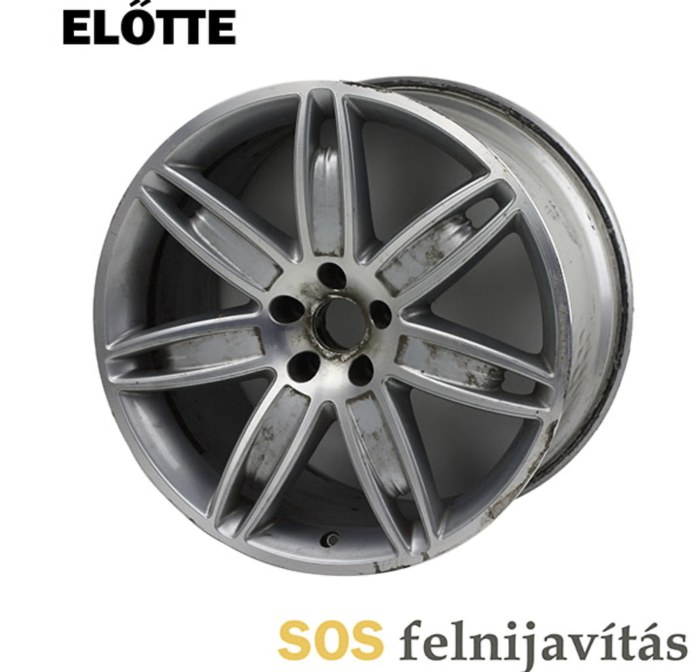
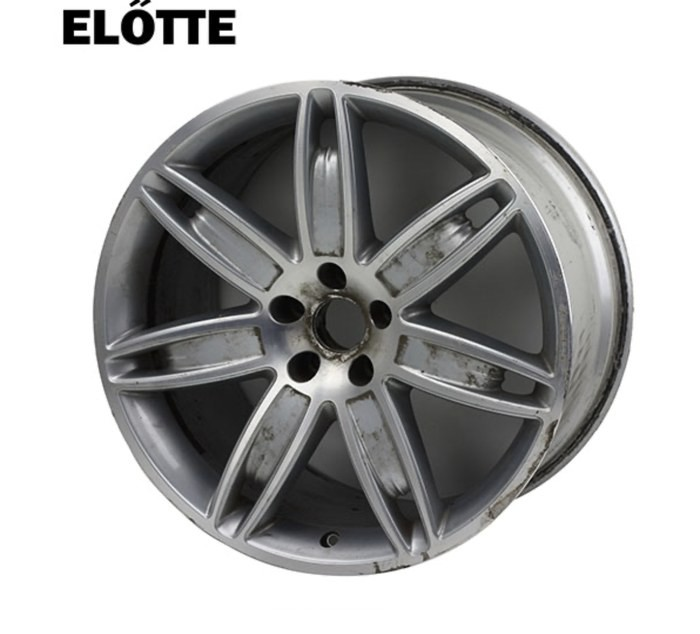
Referenciaképek: SOS-felirat levágva

Changed region(s): [[0.12, 0.0899, 0.99, 1.0], [0.09, 0.0, 0.33, 0.0899], [0.12, 0.3596, 0.15, 0.4495]]

diff --git a/index.html b/index.html
@@ -74,7 +74,7 @@
 
   /* előtte-utána párok (valódi munkák) */
   .ba-pair{display:grid;grid-template-columns:1fr 1fr;gap:6px;margin-top:20px;}
-  .ba-pair img{width:100%;height:auto;aspect-ratio:700/672;object-fit:cover;display:block;background:#fff;border-radius:8px;}
+  .ba-pair img{width:100%;height:auto;aspect-ratio:700/634;object-fit:cover;display:block;background:#fff;border-radius:8px;}
   .ba-grid{display:grid;grid-template-columns:1fr;gap:18px;margin-top:22px;}
   .ba-grid .ba-pair{margin-top:0;}
   .ba-grid .ba-pair img{box-shadow:0 0 0 1px var(--border);}
@@ -346,8 +346,8 @@
   </div>
 
   <div class="ba-pair hero-pair" role="group" aria-label="Valódi munka: felni a javítás előtt és után">
-    <img src="referencia-5-elotte.jpg" alt="Előtte: sómarta, foltos, korrodált alufelni" width="700" height="672" loading="eager">
-    <img src="referencia-5-utana.jpg" alt="Utána: ugyanaz a felni, felújítva, fényesen" width="700" height="672" loading="eager">
+    <img src="referencia-5-elotte.jpg" alt="Előtte: sómarta, foltos, korrodált alufelni" width="700" height="634" loading="eager">
+    <img src="referencia-5-utana.jpg" alt="Utána: ugyanaz a felni, felújítva, fényesen" width="700" height="634" loading="eager">
   </div>
 </section>
 
@@ -360,20 +360,20 @@
   </div>
   <div class="ba-grid">
     <div class="ba-pair">
-      <img src="referencia-2-elotte.jpg" alt="Előtte: matt, kopott szürke felni" width="700" height="672" loading="lazy">
-      <img src="referencia-2-utana.jpg" alt="Utána: ugyanaz a felni fényes feketére fényezve" width="700" height="672" loading="lazy">
+      <img src="referencia-2-elotte.jpg" alt="Előtte: matt, kopott szürke felni" width="700" height="634" loading="lazy">
+      <img src="referencia-2-utana.jpg" alt="Utána: ugyanaz a felni fényes feketére fényezve" width="700" height="634" loading="lazy">
     </div>
     <div class="ba-pair">
-      <img src="referencia-3-elotte.jpg" alt="Előtte: szennyezett, oxidált ötküllős felni" width="700" height="672" loading="lazy">
-      <img src="referencia-3-utana.jpg" alt="Utána: ugyanaz a felni, egységes sötétszürke felülettel" width="700" height="672" loading="lazy">
+      <img src="referencia-3-elotte.jpg" alt="Előtte: szennyezett, oxidált ötküllős felni" width="700" height="634" loading="lazy">
+      <img src="referencia-3-utana.jpg" alt="Utána: ugyanaz a felni, egységes sötétszürke felülettel" width="700" height="634" loading="lazy">
     </div>
     <div class="ba-pair">
-      <img src="referencia-4-elotte.jpg" alt="Előtte: padkasérült, kopott többküllős felni" width="700" height="672" loading="lazy">
-      <img src="referencia-4-utana.jpg" alt="Utána: ugyanaz a felni, hibátlan felülettel" width="700" height="672" loading="lazy">
+      <img src="referencia-4-elotte.jpg" alt="Előtte: padkasérült, kopott többküllős felni" width="700" height="634" loading="lazy">
+      <img src="referencia-4-utana.jpg" alt="Utána: ugyanaz a felni, hibátlan felülettel" width="700" height="634" loading="lazy">
     </div>
     <div class="ba-pair">
-      <img src="referencia-1-elotte.jpg" alt="Előtte: sérült, karcos kétszínű felni" width="700" height="672" loading="lazy">
-      <img src="referencia-1-utana.jpg" alt="Utána: ugyanaz a kétszínű felni, újra gyári megjelenéssel" width="700" height="672" loading="lazy">
+      <img src="referencia-1-elotte.jpg" alt="Előtte: sérült, karcos kétszínű felni" width="700" height="634" loading="lazy">
+      <img src="referencia-1-utana.jpg" alt="Utána: ugyanaz a kétszínű felni, újra gyári megjelenéssel" width="700" height="634" loading="lazy">
     </div>
   </div>
   <button class="btn btn-primary" style="margin-top:22px;" onclick="document.getElementById('photo-dialog').showModal()">Küldöm a saját felnim fotóját</button>
